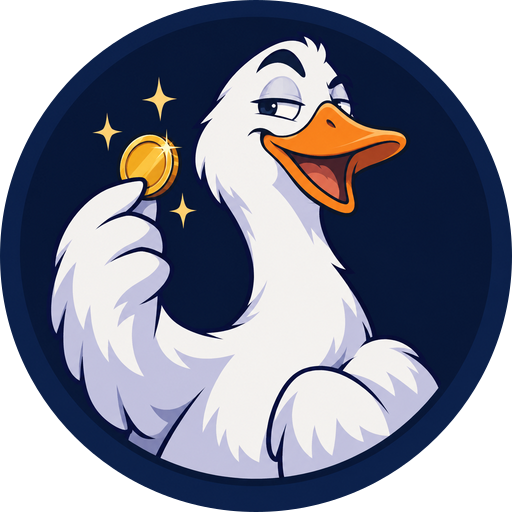
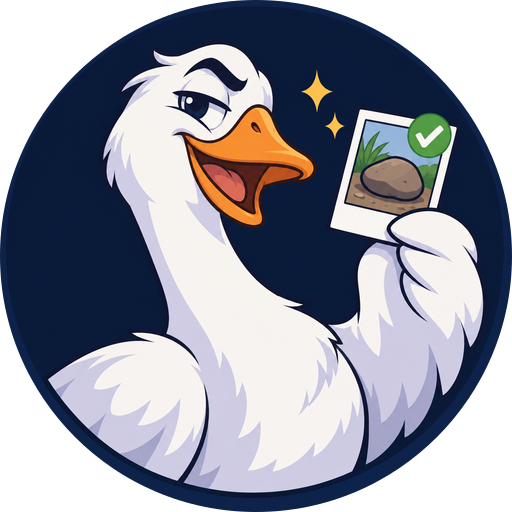
Found it: the goose holds up the photo of the find, not a coin; drop the splash's coin emoji

diff --git a/components/GooseSplash.tsx b/components/GooseSplash.tsx
@@ -124,8 +124,8 @@ export default function GooseSplash({ onFinished }: Props) {
       <Animated.View style={[styles.glowRingOuter, { opacity: glowPulseOuter }]} />
 
       {/* Spinning coin accents */}
-      <Animated.Text style={[styles.coin, styles.coinTL, { transform: [{ rotate: coinRotate }] }]}>🪙</Animated.Text>
-      <Animated.Text style={[styles.coin, styles.coinTR, { transform: [{ rotate: coinRotate }] }]}>🪙</Animated.Text>
+      <Animated.Text style={[styles.coin, styles.coinTL, { transform: [{ rotate: coinRotate }] }]}>✨</Animated.Text>
+      <Animated.Text style={[styles.coin, styles.coinTR, { transform: [{ rotate: coinRotate }] }]}>✨</Animated.Text>
       <Animated.Text style={[styles.coin, styles.coinBL, { transform: [{ rotate: coinRotate }] }]}>✨</Animated.Text>
       <Animated.Text style={[styles.coin, styles.coinBR, { transform: [{ rotate: coinRotate }] }]}>✨</Animated.Text>
 

diff --git a/app/camera.tsx b/app/camera.tsx
@@ -292,7 +292,7 @@ export default function CameraScreen() {
               accessibilityRole="image"
               accessibilityLabel={
                 result.success
-                  ? 'The goose holding up a gold coin, delighted with your find'
+                  ? 'The goose holding up the photo of your find, approved'
                   : 'The goose with its wings crossed, turning away from your photo'
               }
             />

diff --git a/app/hunt/complete.tsx b/app/hunt/complete.tsx
@@ -319,7 +319,7 @@ export default function HuntCompleteScreen() {
               style={styles.goose}
               accessible
               accessibilityRole="image"
-              accessibilityLabel="The goose holding up a gold coin, delighted you finished the hunt"
+              accessibilityLabel="The goose holding up a photo of a find, delighted you finished the hunt"
             />
           </Animated.View>
 

diff --git a/BRAND.md b/BRAND.md
@@ -46,7 +46,7 @@ Shipped 2026-10-21. The masters (1024 px square, on the navy badge) live in the 
 | Pose | What it shows | Where it's used |
 | --- | --- | --- |
 | HONK | Neck stretched up, bill open | The in-app splash (`GooseSplash`), under the "HONK!" bubble. Success toasts are text-only and don't show it yet. |
-| Found it | Holding up a gold coin, delighted | The camera's verified result, the hunt complete hero and the goose on the shareable recap card. |
+| Found it | Holding up the photo of the find, with a green check | The camera's verified result, the hunt complete hero and the goose on the shareable recap card. |
 | Judging | Magnifying glass over a photo | The camera's "Checking your photo…" overlay while the AI judge decides. |
 | Nope | Wings crossed, head turned away | The camera's rejected result ("Not quite..."). |
 | Searching | Peering over a map | The empty states: home ("No hunts yet"), profile ("No completed hunts yet") and the library. No error screen shows a goose yet. |
